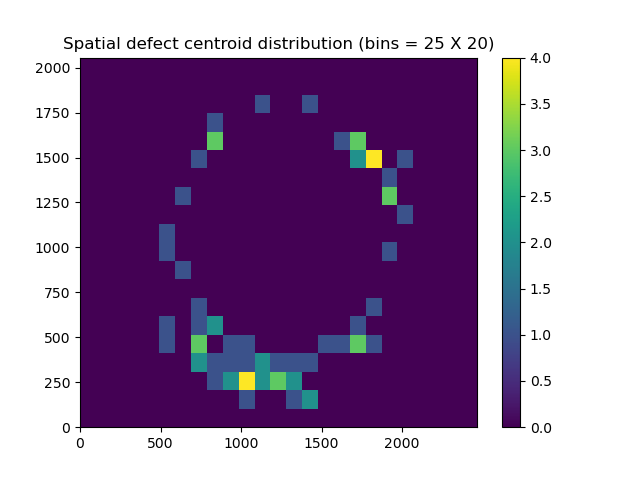
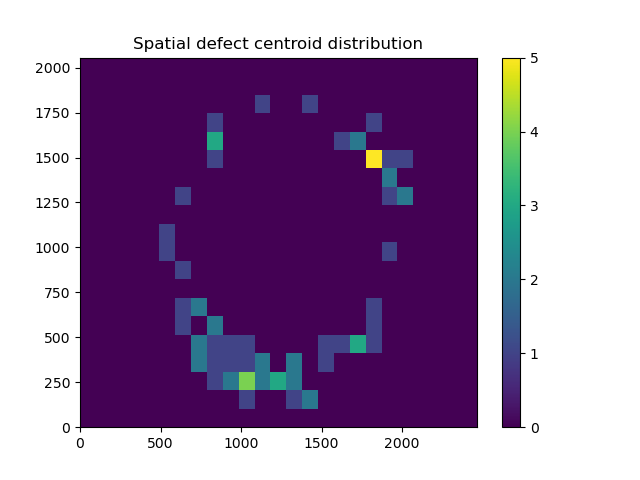
changes

diff --git a/code/bb_analyzer.py b/code/bb_analyzer.py
@@ -1,44 +1,20 @@
 import json
-
 import pandas as pd
 import seaborn as sns
 import matplotlib.pyplot as plt
 import numpy as np
 import utils
-from PIL import Image
-
-def computeCentroid(boxes: 'np.ndarray', ids: 'np.ndarray', files: 'list'):
-    """computes coordinates of centroids and returns them as list"""
-    centroids = []
-    images = [np.array(Image.open(file).convert('L')) for file in files]
-    for i in range(len(boxes)):
-        box = boxes[i]
-        index = ids[i]
-        image = images[ids[i]]
-        sum_x = 0
-        sum_y = 0
-        x0 = int(box[0])
-        y0 = int(box[1])
-        columns = int(box[2])
-        rows = int(box[3])
-        defect = image[y0:(y0+rows), x0:(x0+columns)]
-        for i in range(columns):
-            for j in range(rows):
-                sum_x += x0 + i*defect[j][i]/255
-                sum_y += y0 + j*defect[j][i]/255
-        centroids.append([sum_x/(columns*rows), sum_y/(columns*rows)])
-    return centroids
 
 class BbAnalyzer:
     """"""
     images: 'list'
     data: 'dict'
-    def __init__(self, json_path, defect_dir):
+    def __init__(self, json_path: 'str', defect_dir: 'str'):
         f = open(json_path)
         self.data = json.load(f)
         self.images = utils.get_file_paths(defect_dir)
 
-    def createSdHistogramFast(self, bins: 'int'):
+    def createSdHistogramFast(self, bins: 'list'):
         columns = self.data["images"][0]["width"]
         rows = self.data["images"][0]["height"]
         data = self.data["annotations"]
@@ -50,12 +26,12 @@ class BbAnalyzer:
         plt.title("Spatial defect centroid distribution")
         plt.colorbar()
 
-    def createSdHistogram(self, bins):
+    def createSdHistogram(self, bins: 'list'):
         columns = self.data["images"][0]["width"]
         rows = self.data["images"][0]["height"]
         data = self.data["annotations"]
         boxes, ids = np.asarray(list((defect["bbox"] for defect in data))), np.asarray(list((defect["image_id"] for defect in data))),
-        centroids = computeCentroid(boxes, ids, self.images)
+        centroids = utils.computeCentroid(boxes, ids, self.images)
         x = [centroid[0] for centroid in centroids]
         y = [centroid[1] for centroid in centroids]
         plt.hist2d(x, y, range=[[0, columns], [0, rows]], bins=bins)
@@ -76,7 +52,7 @@ class BbAnalyzer:
         plt.title("Number of defects per image")
         plt.xlabel("Image id")
 
-    def createDefSizePerImhHistogram(self):
+    def createDefSizePerImgHistogram(self):
         data = self.data['annotations']
         ids = list((sub["image_id"] for sub in data))
         areas = np.asarray(list((sub["area"] for sub in data)))

diff --git a/code/utils.py b/code/utils.py
@@ -1,12 +1,37 @@
 import glob
+from PIL import Image
+import numpy as np
+
 
 def get_file_paths(directory_path: 'str') -> list:
     """Return a list of paths matching a pathname pattern."""
     return glob.glob(directory_path)
 
-def addFrequencies(freqs, list):
+def addFrequencies(freqs: 'np.ndarray', list: 'list'):
     """Counts index values"""
     for i in list:
         freqs[i] += 1
     return freqs
+
+def computeCentroid(boxes: 'np.ndarray', ids: 'np.ndarray', files: 'list'):
+    """computes coordinates of centroids and returns them as list"""
+    centroids = []
+    images = [np.array(Image.open(file).convert('L')) for file in files]
+    for i in range(len(boxes)):
+        box = boxes[i]
+        index = ids[i]
+        image = images[ids[i]]
+        sum_x = 0
+        sum_y = 0
+        x0 = int(box[0])
+        y0 = int(box[1])
+        columns = int(box[2])
+        rows = int(box[3])
+        defect = image[y0:(y0+rows), x0:(x0+columns)]
+        for i in range(columns):
+            for j in range(rows):
+                sum_x += x0 + i*defect[j][i]/255
+                sum_y += y0 + j*defect[j][i]/255
+        centroids.append([sum_x/(columns*rows), sum_y/(columns*rows)])
+    return centroids
 

diff --git a/code/Main.py b/code/Main.py
@@ -20,9 +20,9 @@ def main():
     plt.title("Spatial defect centroid distribution (bins = 90 X 72)")
     """
     fig1 = plt.figure()
-    myBa.createDefSizePerImhHistogram()
+    myBa.createDefSizePerImgHistogram()
     if len(sys.argv) > 1:
-        fig1.savefig(sys.argv[1] % 'real_centroid_distribution_(25X20)')
+        fig1.savefig(sys.argv[1] % 'defect_size_per_image_dist')
         #fig2.savefig(sys.argv[1] % 'real_centroid_distribution_(50X40)')
         #fig3.savefig(sys.argv[1] % 'real_centroid_distribution_(90X72)')
     else:

diff --git a/README.md b/README.md
@@ -1,1 +1,35 @@
 # DefectAnalysis
+Simple statistical analysis software
+
+###About
+Purpose of this software is to visualize image data using histograms, with the respect to the matplotlib.pyplot module.
+
+### Usage
+
+1. Install requirements by running the following command:
+```
+pip install -r requirements.txt
+```
+
+2. Run the `Main.py` script with the following arguments:
+
+```
+python Main.py [OPTIONAL] "PATH_TO_SAVE"
+```
+
+#### Examples
+
+Example with directly saving the results to a specific path:
+
+```
+python code/Main.py "./results/%s.png"
+```
+
+
+### TODO
+
+- [ ] Clean up code to make it reusable for other modalities and following pep-8 standards
+- [ ] Add more features
+
+
+
